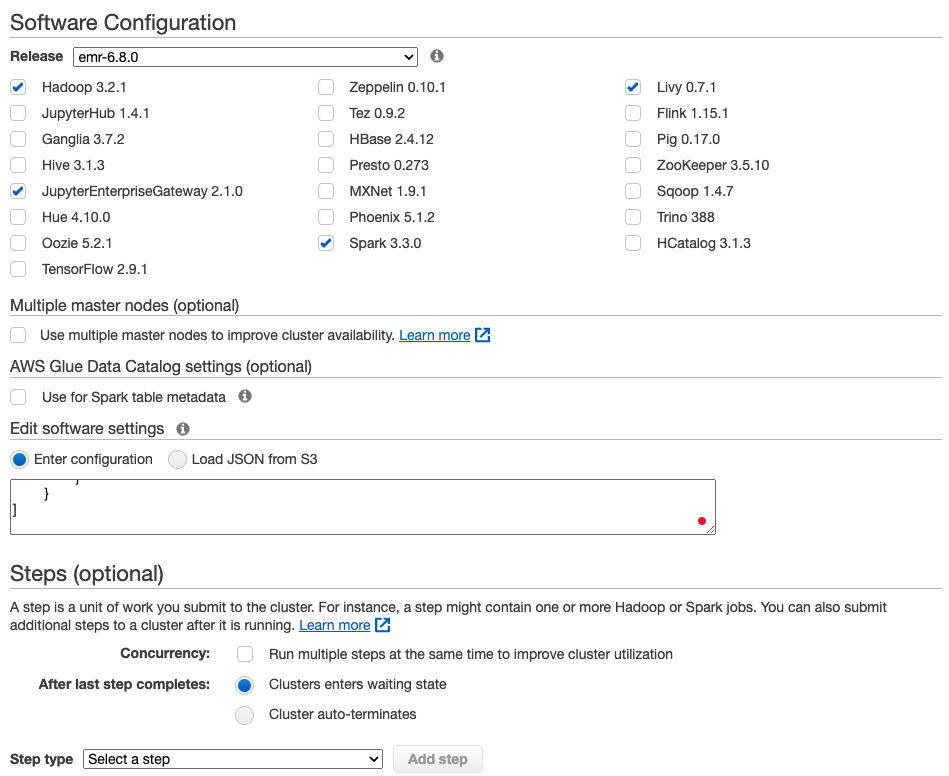
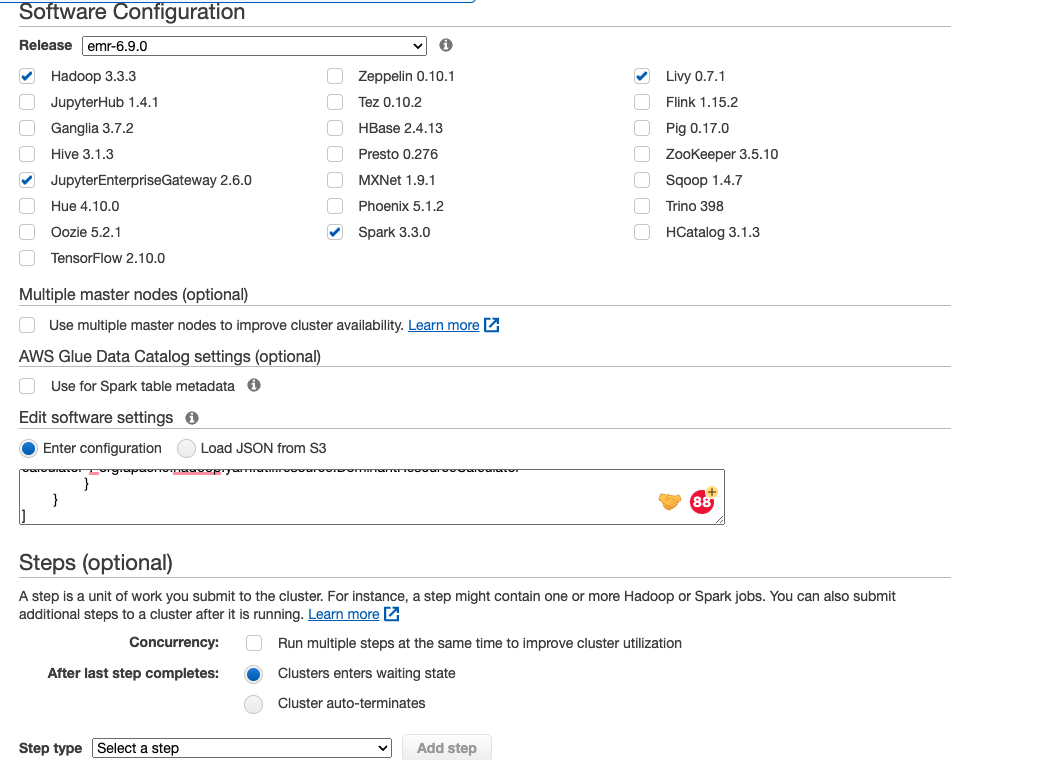
update for emr690 release

diff --git a/docs/get-started/getting-started-aws-emr.md b/docs/get-started/getting-started-aws-emr.md
@@ -14,6 +14,7 @@ Different versions of EMR ship with different versions of Spark, RAPIDS Accelera
 
 | EMR | Spark | RAPIDS Accelerator jar | cuDF jar | xgboost4j-spark jar
 | --- | --- | --- | ---| --- |
+| 6.9 | 3.3.0 | rapids-4-spark_2.12-22.08.0.jar | Bundled with rapids-4-spark | xgboost4j-spark_3.0-1.4.2-0.3.0.jar |
 | 6.8 | 3.3.0 | rapids-4-spark_2.12-22.06.0.jar | Bundled with rapids-4-spark | xgboost4j-spark_3.0-1.4.2-0.3.0.jar |
 | 6.7 | 3.2.1 | rapids-4-spark_2.12-22.02.0.jar | cudf-22.02.0-cuda11.jar | xgboost4j-spark_3.0-1.2.0-0.1.0.jar |
 | 6.6 | 3.2.0 | rapids-4-spark_2.12-22.02.0.jar | cudf-22.02.0-cuda11.jar | xgboost4j-spark_3.0-1.2.0-0.1.0.jar |
@@ -40,7 +41,7 @@ g4dn.2xlarge nodes:
 
 ```
 aws emr create-cluster \
---release-label emr-6.7.0 \
+--release-label emr-6.9.0 \
 --applications Name=Hadoop Name=Spark Name=Livy Name=JupyterEnterpriseGateway \
 --service-role EMR_DefaultRole \
 --ec2-attributes KeyName=my-key-pair,InstanceProfile=EMR_EC2_DefaultRole \
@@ -80,8 +81,8 @@ detailed cluster configuration page.
 
 #### Step 1:  Software Configuration and Steps
 
-Select **emr-6.8.0** for the release, uncheck all the software options, and then check **Hadoop
-3.2.1**, **Spark 3.3.0**, **Livy 0.7.1** and **JupyterEnterpriseGateway 2.1.0**.
+Select **emr-6.9.0** for the release, uncheck all the software options, and then check **Hadoop
+3.2.1**, **Spark 3.3.0**, **Livy 0.7.1** and **JupyterEnterpriseGateway 2.6.0**.
 
 In the "Edit software settings" field, copy and paste the configuration from the [EMR
 document](https://docs.aws.amazon.com/emr/latest/ReleaseGuide/emr-spark-rapids.html). You can also
